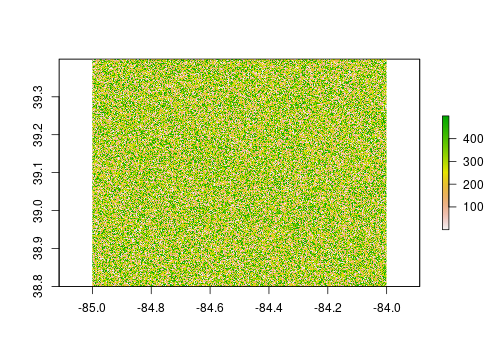
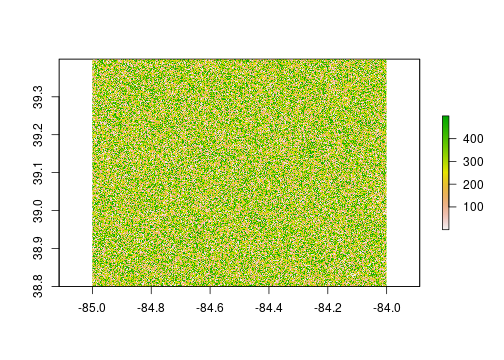
small update

diff --git a/Intro_to_spatial_analysis.html b/Intro_to_spatial_analysis.html
@@ -450,6 +450,8 @@ class: inverse, center, middle
 &lt;!-- old timer--&gt;
 &lt;!-- three types of data --&gt;
 
+- `RasterStack`, `RasterBrick`
+
 
 ```r
 library('raster')
@@ -605,6 +607,7 @@ values_dem &lt;- getValues(dem)
 ---
 ## Attributes
 
+.pull-left[
 
 ```r
 new_values &lt;- runif(864000, min=0, max=500) # pseudo-random number generator
@@ -612,7 +615,19 @@ new_dem &lt;- setValues(dem, new_values)
 ```
 
 &lt;img src="Intro_to_spatial_analysis_files/figure-html/unnamed-chunk-47-1.png" style="display: block; margin: auto;" /&gt;
+]
 
+.pull-right[
+
+```r
+new_dem2 &lt;- dem
+new_dem2[new_dem2 &lt; 0] &lt;-  NA
+```
+
+&lt;img src="Intro_to_spatial_analysis_files/figure-html/unnamed-chunk-49-1.png" style="display: block; margin: auto;" /&gt;
+]
+
+---
 ## CRS assign
 
 
@@ -652,7 +667,7 @@ dem3410 &lt;- projectRaster(dem, crs="+proj=cea +lon_0=0 +lat_ts=30 +x_0=0 +y_0=
 plot(dem)
 ```
 
-&lt;img src="Intro_to_spatial_analysis_files/figure-html/unnamed-chunk-52-1.png" style="display: block; margin: auto;" /&gt;
+&lt;img src="Intro_to_spatial_analysis_files/figure-html/unnamed-chunk-54-1.png" style="display: block; margin: auto;" /&gt;
 
 ---
 class: inverse, center, middle
@@ -678,7 +693,7 @@ ham_sp &lt;- as(ham, 'Spatial')
 dem_crop &lt;- crop(dem, ham_sp)
 ```
 
-![](Intro_to_spatial_analysis_files/figure-html/unnamed-chunk-56-1.png)&lt;!-- --&gt;
+![](Intro_to_spatial_analysis_files/figure-html/unnamed-chunk-58-1.png)&lt;!-- --&gt;
 ]
 
 .pull-right[ 
@@ -687,7 +702,7 @@ dem_crop &lt;- crop(dem, ham_sp)
 dem_mask &lt;- mask(dem_crop, ham_sp)
 ```
 
-![](Intro_to_spatial_analysis_files/figure-html/unnamed-chunk-58-1.png)&lt;!-- --&gt;
+![](Intro_to_spatial_analysis_files/figure-html/unnamed-chunk-60-1.png)&lt;!-- --&gt;
 ]
 
 ---
@@ -708,7 +723,7 @@ p &lt;- levelplot(dem_crop, margin = FALSE, par.settings = my_theme)
 p + layer(sp.lines(ham_sp, lwd = 1.4, col = 'black'))
 ```
 
-&lt;img src="Intro_to_spatial_analysis_files/figure-html/unnamed-chunk-59-1.png" style="display: block; margin: auto;" /&gt;
+&lt;img src="Intro_to_spatial_analysis_files/figure-html/unnamed-chunk-61-1.png" style="display: block; margin: auto;" /&gt;
 
 ---
 ## tmap
